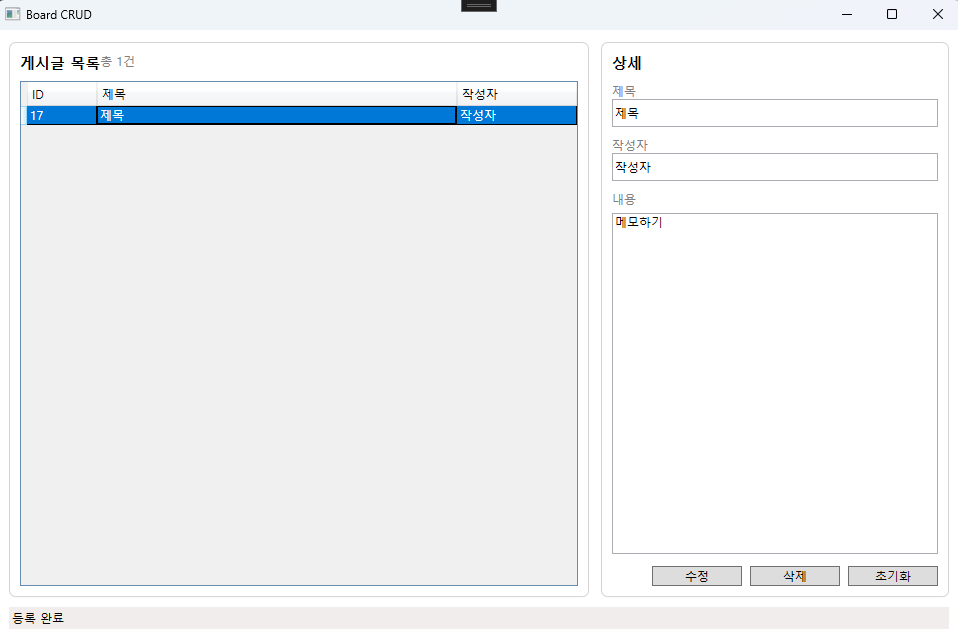
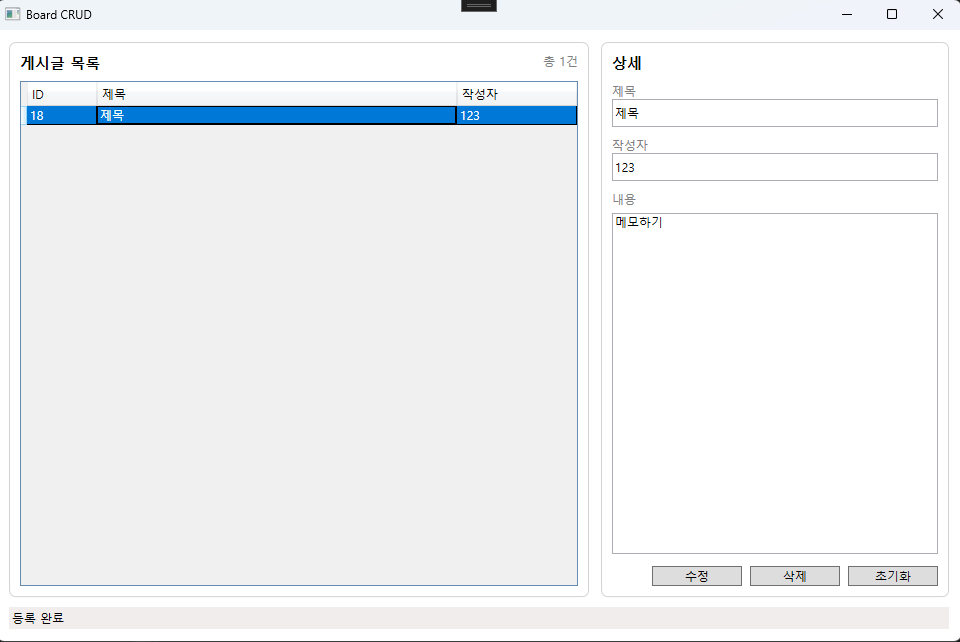
fit: MainWindow TextBlock 태그의 총 {0}건 문구 우측 정렬

diff --git a/Views/MainWindow.xaml b/Views/MainWindow.xaml
@@ -27,12 +27,21 @@
                         <RowDefinition Height="*"/>
                     </Grid.RowDefinitions>
 
-                    <DockPanel Grid.Row="0">
-                        <TextBlock FontSize="15" FontWeight="SemiBold" Text="게시글 목록"/>
-                        <TextBlock DockPanel.Dock="Right"
-                                   Text="{Binding Posts.Count, StringFormat=총 {0}건}"
-                                   Foreground="Gray"/>
-                    </DockPanel>
+                    <Grid Grid.Row="0">
+                        <Grid.ColumnDefinitions>
+                            <ColumnDefinition Width="*"/>
+                            <ColumnDefinition Width="Auto"/>
+                        </Grid.ColumnDefinitions>
+
+                        <TextBlock Grid.Column="0"
+                            FontSize="15"
+                            FontWeight="SemiBold"
+                            Text="게시글 목록"/>
+                        <TextBlock Grid.Column="1"
+                            Text="{Binding Posts.Count, StringFormat=총 {0}건}"
+                            Foreground="Gray"
+                            HorizontalAlignment="Right"/>
+                    </Grid>
 
                     <DataGrid Grid.Row="2"
                               ItemsSource="{Binding Posts}"
